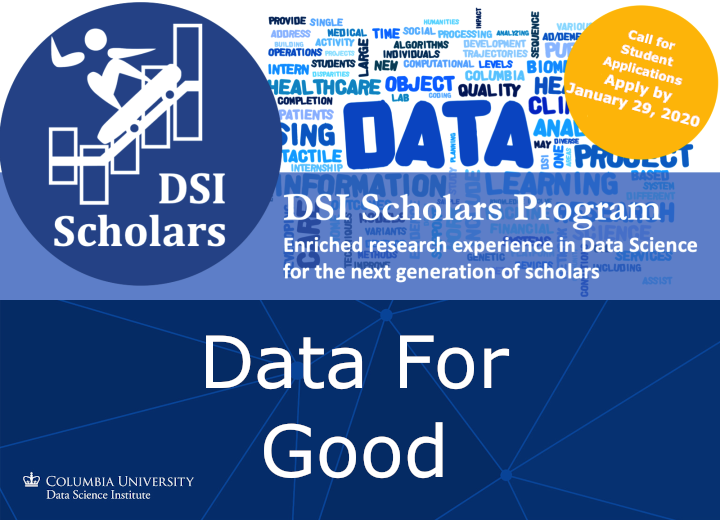
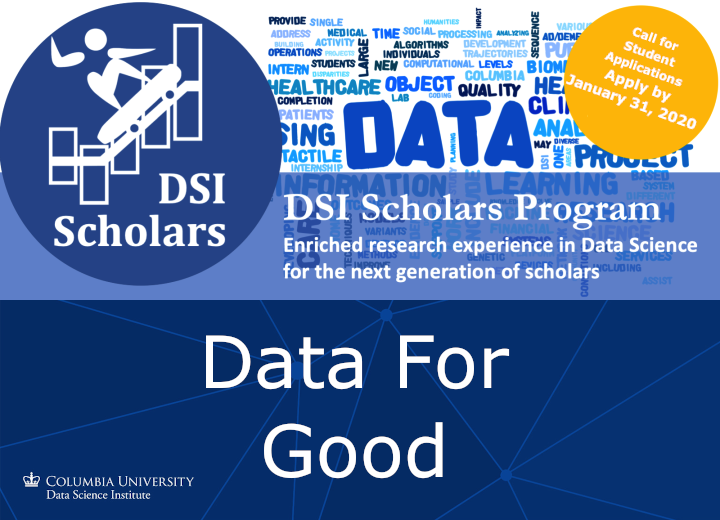
deadline update

Changed region(s): [[0.7639, 0.0615, 0.9778, 0.2462]]

diff --git a/2020/01/call-for-student-applications-dsi-scholars-spring-summer-2020/index.html b/2020/01/call-for-student-applications-dsi-scholars-spring-summer-2020/index.html
@@ -62,10 +62,10 @@ The Data For Good Scholars program connects student volunteers to organizations 
     
 
     
-      <meta property="og:image" content="https://res.cloudinary.com/vdoriecu/image/upload/c_scale,w_720/v1579112849/opencall_spring-summer2020_kftior.png">
+      <meta property="og:image" content="https://res.cloudinary.com/vdoriecu/image/upload/c_scale,w_720/v1579132878/opencall_spring-summer2020_ghawiw.png">
     
     
-      <meta property="og:image" content="https://res.cloudinary.com/vdoriecu/image/upload/c_scale,e_blur:300,w_800/v1579112849/opencall_spring-summer2020_kftior.png">
+      <meta property="og:image" content="https://res.cloudinary.com/vdoriecu/image/upload/c_scale,e_blur:300,w_800/v1579132878/opencall_spring-summer2020_ghawiw.png">
     
     
 
@@ -231,7 +231,7 @@ The Data For Good Scholars program connects student volunteers to organizations 
   <div class="post-header-cover
               text-center
               "
-       style="background-image:url('https://res.cloudinary.com/vdoriecu/image/upload/c_scale,e_blur:300,w_800/v1579112849/opencall_spring-summer2020_kftior.png')"
+       style="background-image:url('https://res.cloudinary.com/vdoriecu/image/upload/c_scale,e_blur:300,w_800/v1579132878/opencall_spring-summer2020_ghawiw.png')"
        data-behavior="4">
     
       <div class="post-header main-content-wrap text-center">

diff --git a/2020/01/project-examining-the-synergistic-effects-of-cannabis-and-prescription-opioid-policies-on-chronic-pain-opioid-prescribing-and-opioid-overdose/index.html b/2020/01/project-examining-the-synergistic-effects-of-cannabis-and-prescription-opioid-policies-on-chronic-pain-opioid-prescribing-and-opioid-overdose/index.html
@@ -279,7 +279,7 @@ learning. The final product, a dataset with state-level data on the expert-ident
 <li>Professor: <a href="https://www.mailman.columbia.edu/people/our-faculty/ssm2183">Silvia Martins</a></li>
 <li>Department/School: Epidemiology</li>
 <li>Location: 722 W 168th St Room 509 New York NY 10023</li>
-<li>Dr. Martins&rsquo;s lab conducts  research on opioid and marijuana policies and  marijuana and opioid-related harm outcomes using   data from large national datasets</li>
+<li>Dr. Martins&rsquo;s lab conducts research on opioid and marijuana policies and marijuana and opioid-related harm outcomes using data from large national datasets</li>
 </ul>
 
 <h2 id="project-timeline">Project Timeline</h2>

diff --git a/categories/announcement/index.html b/categories/announcement/index.html
@@ -234,7 +234,7 @@
     
       <a href="../../2020/01/call-for-student-applications-dsi-scholars-spring-summer-2020/">
         <div class="postShorten-thumbnailimg">
-          <img alt="" itemprop="image" src="https://res.cloudinary.com/vdoriecu/image/upload/c_scale,w_720/v1579112849/opencall_spring-summer2020_kftior.png"/>
+          <img alt="" itemprop="image" src="https://res.cloudinary.com/vdoriecu/image/upload/c_scale,w_720/v1579132878/opencall_spring-summer2020_ghawiw.png"/>
         </div>
       </a>
     

diff --git a/tags/spring-2020/index.html b/tags/spring-2020/index.html
@@ -234,7 +234,7 @@
     
       <a href="../../2020/01/call-for-student-applications-dsi-scholars-spring-summer-2020/">
         <div class="postShorten-thumbnailimg">
-          <img alt="" itemprop="image" src="https://res.cloudinary.com/vdoriecu/image/upload/c_scale,w_720/v1579112849/opencall_spring-summer2020_kftior.png"/>
+          <img alt="" itemprop="image" src="https://res.cloudinary.com/vdoriecu/image/upload/c_scale,w_720/v1579132878/opencall_spring-summer2020_ghawiw.png"/>
         </div>
       </a>
     

diff --git a/tags/summer-2020/index.html b/tags/summer-2020/index.html
@@ -234,7 +234,7 @@
     
       <a href="../../2020/01/call-for-student-applications-dsi-scholars-spring-summer-2020/">
         <div class="postShorten-thumbnailimg">
-          <img alt="" itemprop="image" src="https://res.cloudinary.com/vdoriecu/image/upload/c_scale,w_720/v1579112849/opencall_spring-summer2020_kftior.png"/>
+          <img alt="" itemprop="image" src="https://res.cloudinary.com/vdoriecu/image/upload/c_scale,w_720/v1579132878/opencall_spring-summer2020_ghawiw.png"/>
         </div>
       </a>
     

diff --git a/post/index.html b/post/index.html
@@ -231,7 +231,7 @@
     
       <a href="../2020/01/call-for-student-applications-dsi-scholars-spring-summer-2020/">
         <div class="postShorten-thumbnailimg">
-          <img alt="" itemprop="image" src="https://res.cloudinary.com/vdoriecu/image/upload/c_scale,w_720/v1579112849/opencall_spring-summer2020_kftior.png"/>
+          <img alt="" itemprop="image" src="https://res.cloudinary.com/vdoriecu/image/upload/c_scale,w_720/v1579132878/opencall_spring-summer2020_ghawiw.png"/>
         </div>
       </a>
     

diff --git a/index.html b/index.html
@@ -231,7 +231,7 @@
     
       <a href="./2020/01/call-for-student-applications-dsi-scholars-spring-summer-2020/">
         <div class="postShorten-thumbnailimg">
-          <img alt="" itemprop="image" src="https://res.cloudinary.com/vdoriecu/image/upload/c_scale,w_720/v1579112849/opencall_spring-summer2020_kftior.png"/>
+          <img alt="" itemprop="image" src="https://res.cloudinary.com/vdoriecu/image/upload/c_scale,w_720/v1579132878/opencall_spring-summer2020_ghawiw.png"/>
         </div>
       </a>
     
